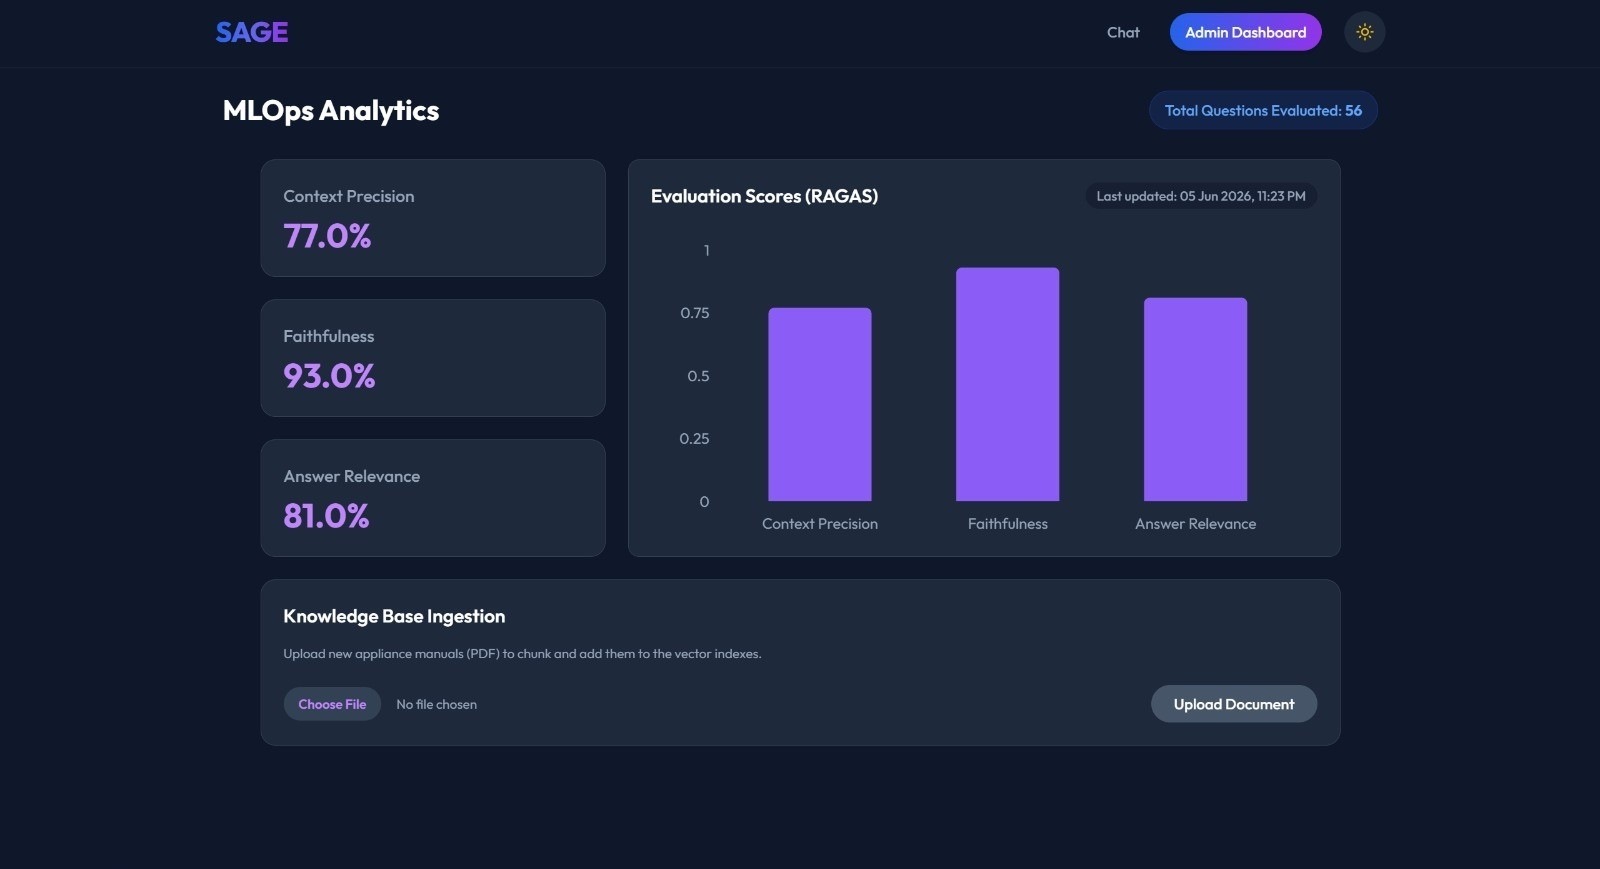
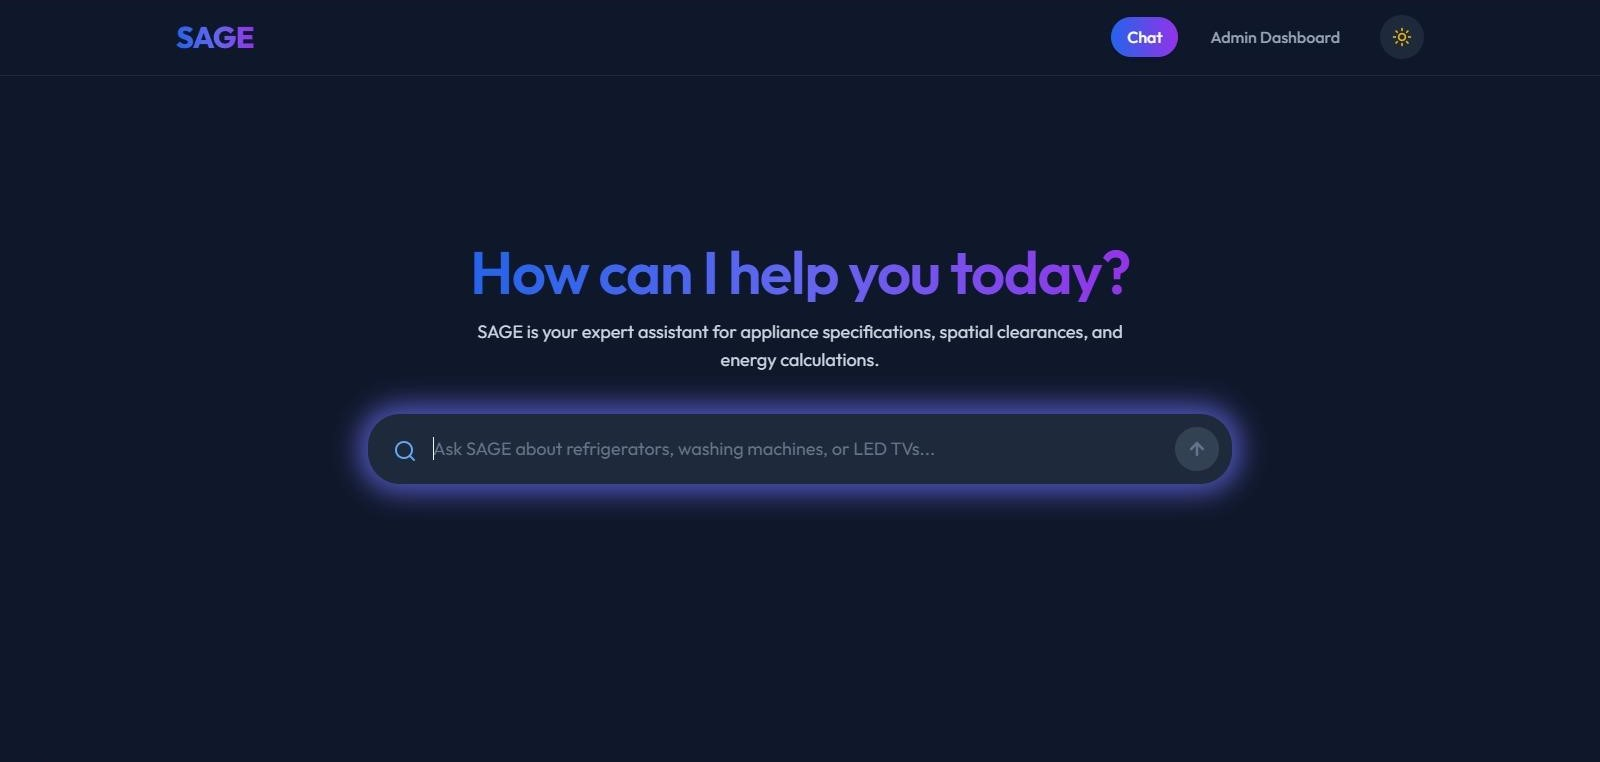
Sage project update

diff --git a/src/components/ProjectDetail.jsx b/src/components/ProjectDetail.jsx
@@ -306,7 +306,8 @@ const projectData = {
       '/Projects/sage/Sage04.jpeg',
       '/Projects/sage/Sage05.jpeg',
       '/Projects/sage/Sage06.jpeg',
-      '/Projects/sage/Sage07.jpeg'
+      '/Projects/sage/Sage07.jpeg',
+      '/Projects/sage/Sage08.jpeg'
     ],
     description: {
       tagline: 'A multi-agent Retrieval-Augmented Generation assistant delivering grounded, domain-specific support for Samsung appliances.',